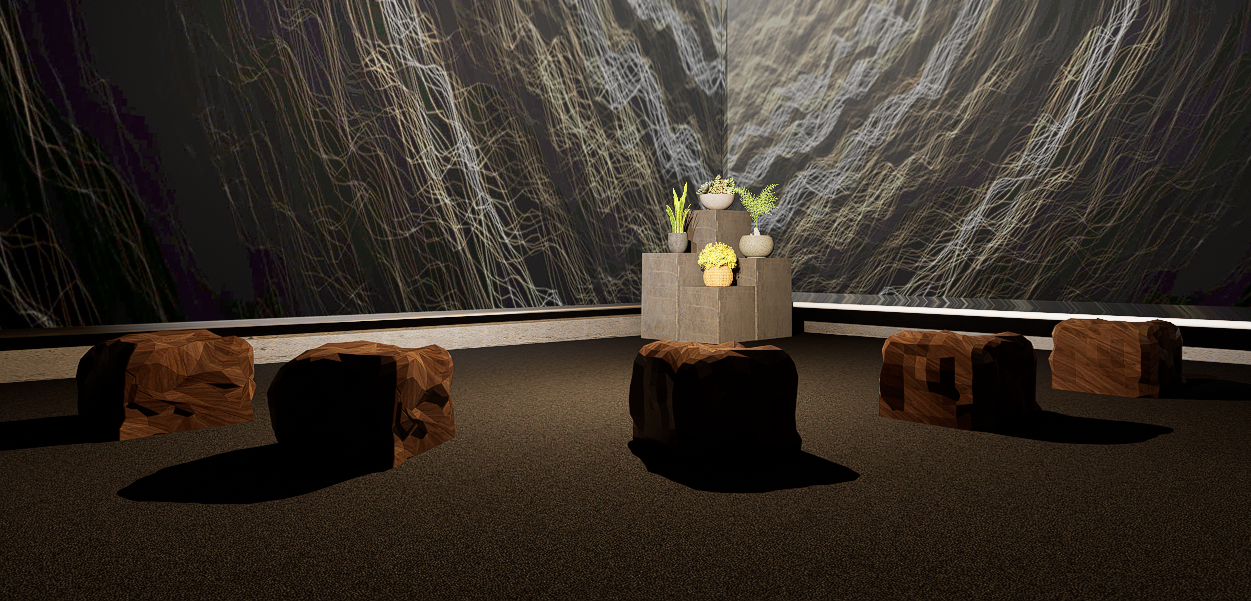
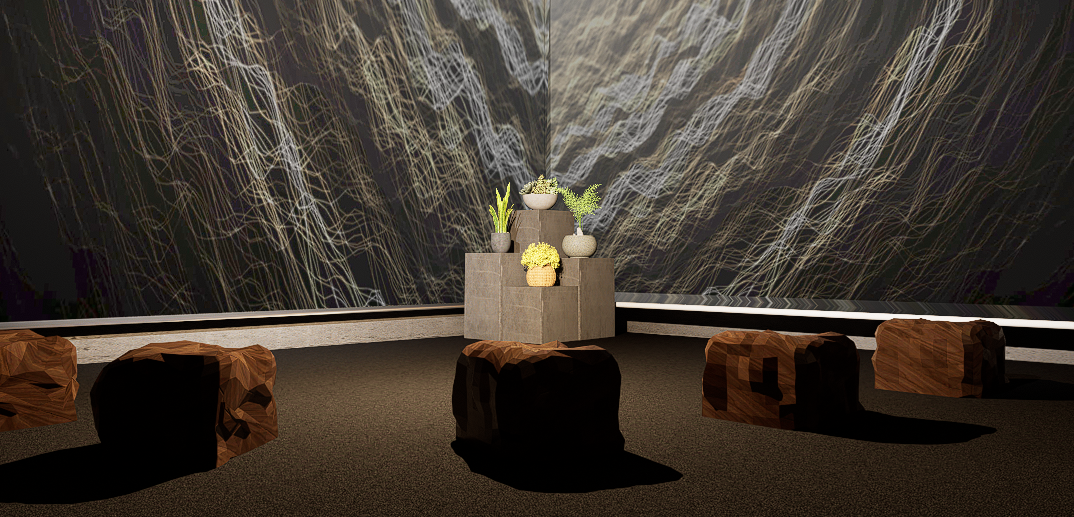
2

diff --git a/armonias.css b/armonias.css
@@ -107,27 +107,39 @@ main {
 
 /* section1 */
 
-.image-container{
-  height: 90vh;
-  display: flex;
-  margin-top: 1rem;
- 
-}
+
+  .image-container {
+    height: 90vh;
+    display: flex;
+    margin-top: 1rem;
+    top: 0px;
+    font-family: "Montserrat", sans-serif;
+    background-image: url('img/render\ 2.png');
+    background-size: cover;
+    background-position: center;
+    height: 80vh;
+    width: 100vw;
+    z-index: -1;
+    display: flex;
+    
+  }
+
 #invitacion {
   position: absolute;
-  top: 35%; /* Ajusta la posición vertical */
-  left: 50%; /* Ajusta la posición horizontal */
-  transform: translate(-50%, -50%); /* Centra el contenido */
-  color: white; /* Ajusta el color del texto */
-  text-align: center; /* Alinea el texto al centro */
+  top: 38%; 
+  left: 50%; 
+  transform: translate(-50%, -50%); 
+  color: rgb(255, 255, 255); 
+  text-align: center; 
   display: flex;
   justify-content: space-between;
-  padding: 50px;
+  padding: px;
   margin: 0%;
-  background-color: #f8f5f100;
+  background-color: #00000000;
   font-family: "Montserrat", sans-serif;
   font-weight: 400;
-  width: 90%; 
+  width: 95%; 
+  filter: none;
 }
 .logo{
   margin-top: 10px;
@@ -149,6 +161,33 @@ main {
   text-align: right; 
   flex: 1; 
   margin-top: 4rem;
+}
+.title, .slogan{
+  filter: drop-shadow(1px 1px 5px rgb(22, 51, 21));
+}
+
+@media (max-width: 768px) {
+  
+  #invitacion {
+    flex-direction: column; 
+    padding: 20px; 
+    top: 25%; 
+  }
+
+  .title, .slogan {
+    text-align: center; 
+    flex: none; 
+    margin-top: 1rem; 
+  }
+
+  .title {
+    font-size: 2rem; 
+  }
+
+  .slogan {
+    font-size: 1.9rem; 
+    margin-top: 1rem; 
+  }
 }
 
 

diff --git a/index.html b/index.html
@@ -14,7 +14,7 @@
 <body>
     <header>
         <nav class="navbar">
-        <img src="img/image.png" alt="Logo" >
+        <img src="img/logo.png" alt="Logo" >
         <span class="menu-toggle">☰</span>
         <ul>
             <li><a href="actividades.html">Actividades</a></li>
@@ -29,7 +29,7 @@
     <main>
         <!-- invitacion -->
         <div class="image-container">
-            <img src="img/render 1.png" alt="Imagen de Fondo">
+            
             <div class="container" id="invitacion">
                 <div class="title">
                     <span class="title-line">ARMONÍAS</span>
@@ -58,7 +58,7 @@
                 <img src="img/oscurabk.png" alt="marca 1" class="marcas">
                 <img src="img/pontificia-universidad-javeriana-vector-logo.webp" alt="marca 2" class="marcas">
                 <img src="img/logoIdartes.png" alt="marca 3" class="marcas">
-                <img src="img/blancabk.png" alt="marca 4" class="marcas">
+                <img src="img/galeria.png" alt="marca 4" class="marcas">
             </div>
         </section>
         <!-- section2 -->
